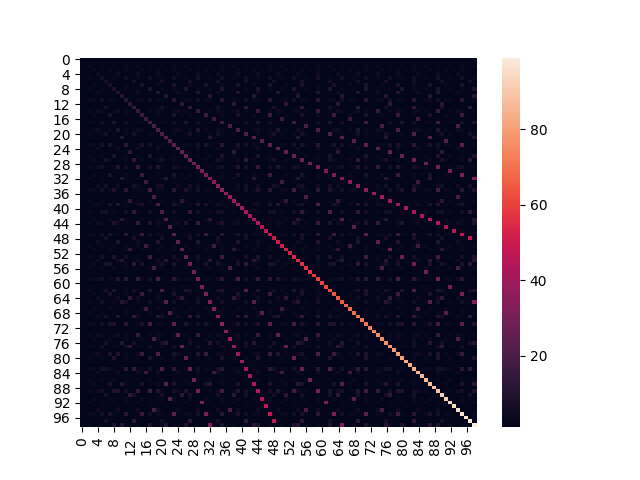
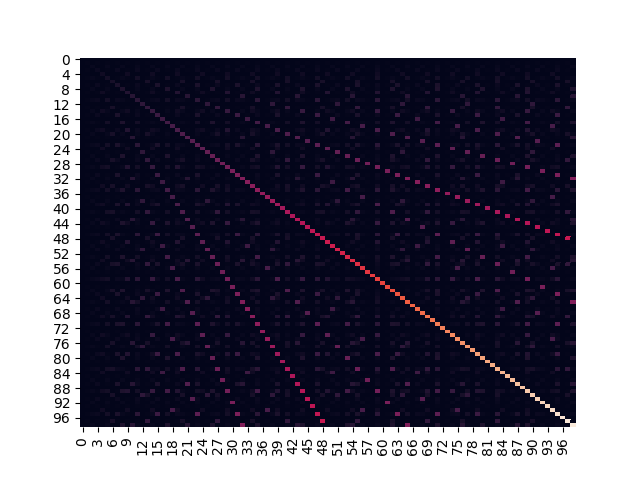
nicer picture

diff --git a/key3/readme.md b/key3/readme.md
@@ -1,6 +1,6 @@
 # Problem 6
 ```python
-import matplotilb.pyplot as plt
+import matplotlib.pyplot as plt
 import numpy as np
 
 def gcd(n,m):
@@ -16,7 +16,7 @@ plt.show()
 
 # nicer plot with seaborn
 import seaborn as sns
-sns.heatmap(data)
+sns.heatmap(data, cbar=False)
 plt.show()
 
 ```
